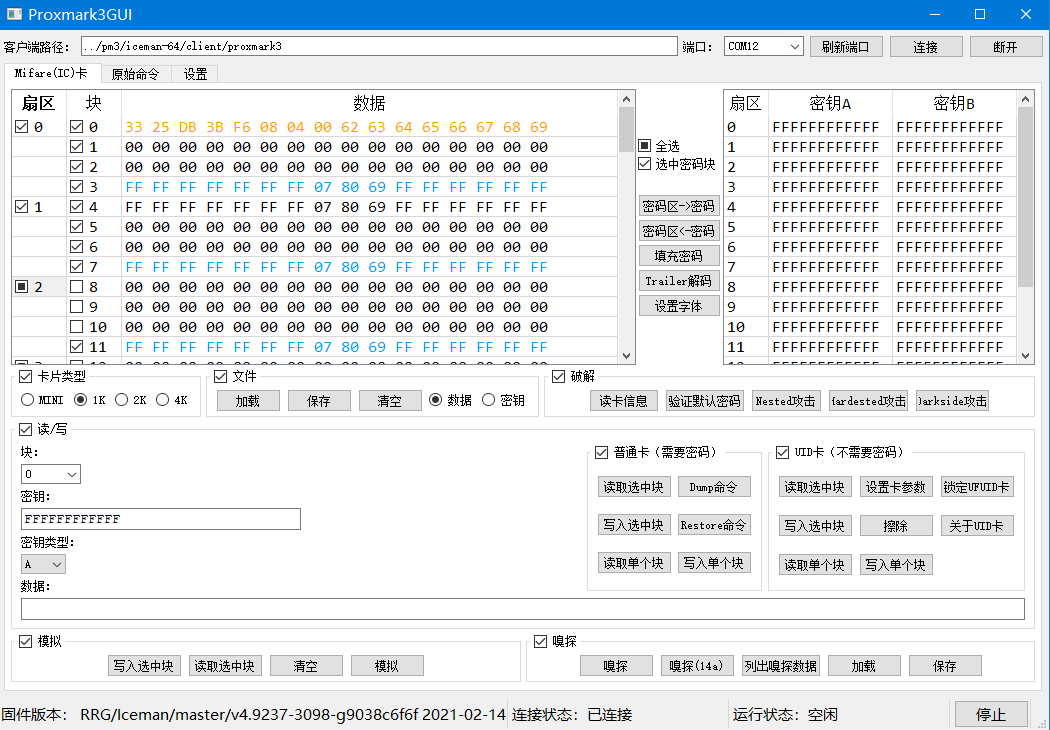
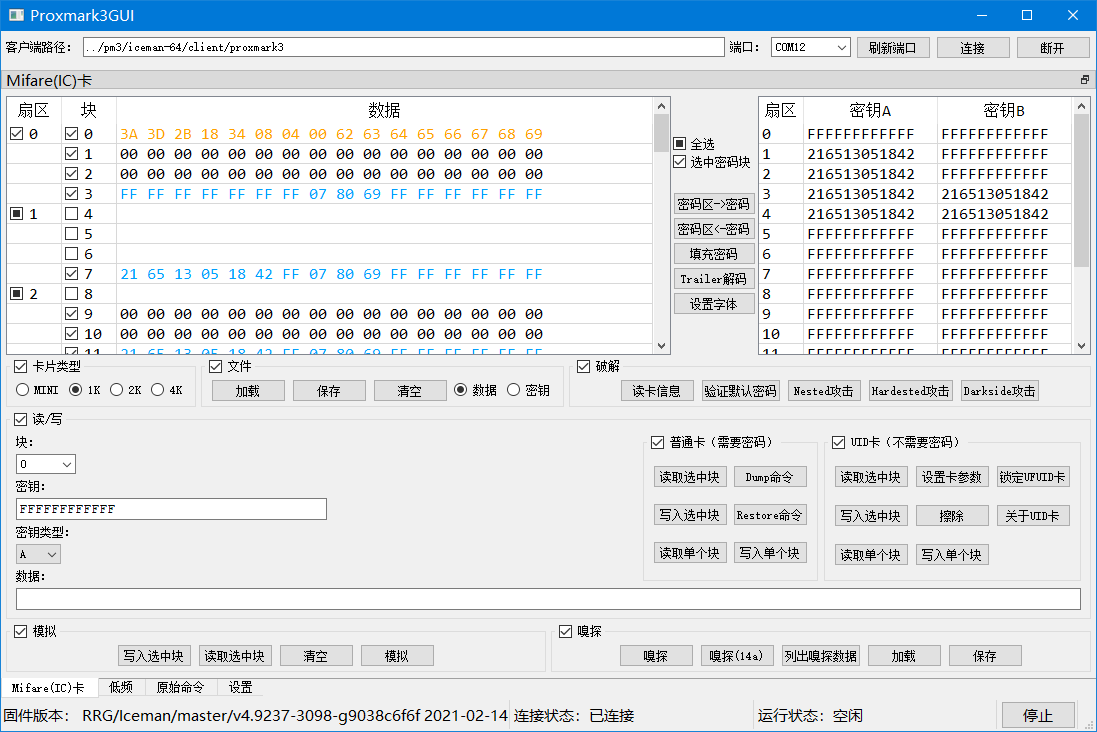
V0.2

Changed region(s): [[0.0, 0.0, 1.0, 1.0]]

diff --git a/lang/zh_CN.ts b/lang/zh_CN.ts
@@ -1137,7 +1137,7 @@ When setting the freq, the &quot;hw setlfdivisor&quot; will also be called.</sou
         <translation>正在运行</translation>
     </message>
     <message>
-        <location filename="../ui/mainwindow.cpp" line="1254"/>
+        <location filename="../ui/mainwindow.cpp" line="1256"/>
         <source>Actural Freq: </source>
         <translation>实际频率： </translation>
     </message>

diff --git a/lang/en_US.ts b/lang/en_US.ts
@@ -1121,7 +1121,7 @@ or &quot;-p &lt;port&gt; -f&quot;</source>
         <translation type="unfinished"></translation>
     </message>
     <message>
-        <location filename="../ui/mainwindow.cpp" line="1254"/>
+        <location filename="../ui/mainwindow.cpp" line="1256"/>
         <source>Actural Freq: </source>
         <translation type="unfinished"></translation>
     </message>

diff --git a/ui/mainwindow.cpp b/ui/mainwindow.cpp
@@ -1152,6 +1152,8 @@ void MainWindow::setButtonsEnabled(bool st)
     ui->MF_sniffGroupBox->setEnabled(st);
     ui->Raw_CMDEdit->setEnabled(st);
     ui->Raw_sendCMDButton->setEnabled(st);
+    ui->LF_configGroupBox->setEnabled(st);
+    ui->LF_operationGroupBox->setEnabled(st);
 }
 
 void MainWindow::on_GroupBox_clicked(bool checked)

diff --git a/README.md b/README.md
@@ -3,7 +3,7 @@
 
 A cross-platform GUI for [Proxmark3](https://github.com/Proxmark/proxmark3) client
 
-[中文](README/doc/README_zh_CN.md)
+[中文介绍](README/doc/README_zh_CN.md)
 
 ***
 
@@ -19,6 +19,7 @@ A cross-platform GUI for [Proxmark3](https://github.com/Proxmark/proxmark3) clie
     + Support binary(.bin .dump) files and text(.eml) files
     + Analyze Access Bits
     + Support Chinese Magic Card
++ Have basic support for LF commands
 + Customize UI  
 + ...  
 
@@ -40,7 +41,7 @@ This GUI is compatible with Iceman/RRG repo(tested on v4.9237)
 
 ## About Compiled Windows clients
 
-A cool guy [Gator96100](https://github.com/Gator96100) creates [ProxSpace](https://github.com/Gator96100/ProxSpace) and makes it possible to compile both the firmware and client on Windows.  
+A cool guy [Gator96100](https://github.com/Gator96100) creates [ProxSpace](https://github.com/Gator96100/ProxSpace) and makes it possible to compile both the firmware and the client on Windows.  
 Also, he makes the [pre-compiled Windows client](https://www.proxmarkbuilds.org/) so you can download it and run your PM3 client on Windows instantly.  
 I included his compiled client in my releases so you can use the GUI on the fly, and you can also use the GUI with your prefered client.  
 Great thanks to him.  
@@ -63,6 +64,11 @@ Great thanks to him.
 ***
 
 ## Update Log:
+
+### V0.2
++ Use Dock widget for more flexible layout  
++ Support basic LF commands  
++ Fix a bug in RawCommand tab  
 
 ### V0.1.4
 + Optimize performance  

diff --git a/README/doc/previews.md b/README/doc/previews.md
@@ -14,3 +14,7 @@ Mifare Edit File:
 
 Mifare Trailer Decoder:  
 ![mf_trailer](../img/mf_trailer.gif)
+
+Dock Widget:  
+![dock1](../img/dock1.png)  
+![dock2](../img/dock2.png)  
